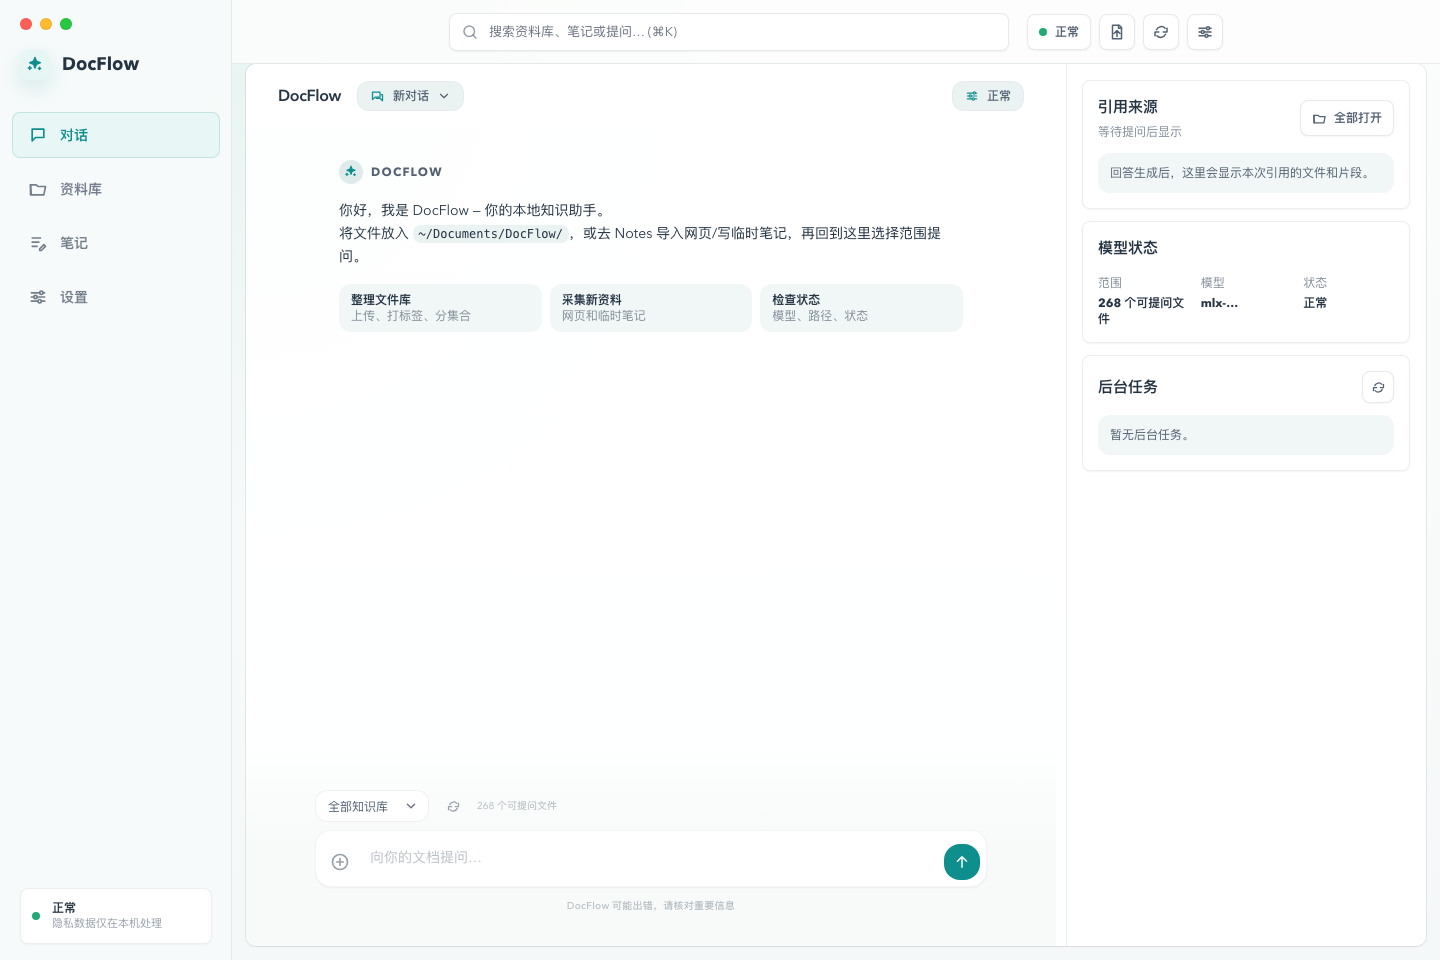
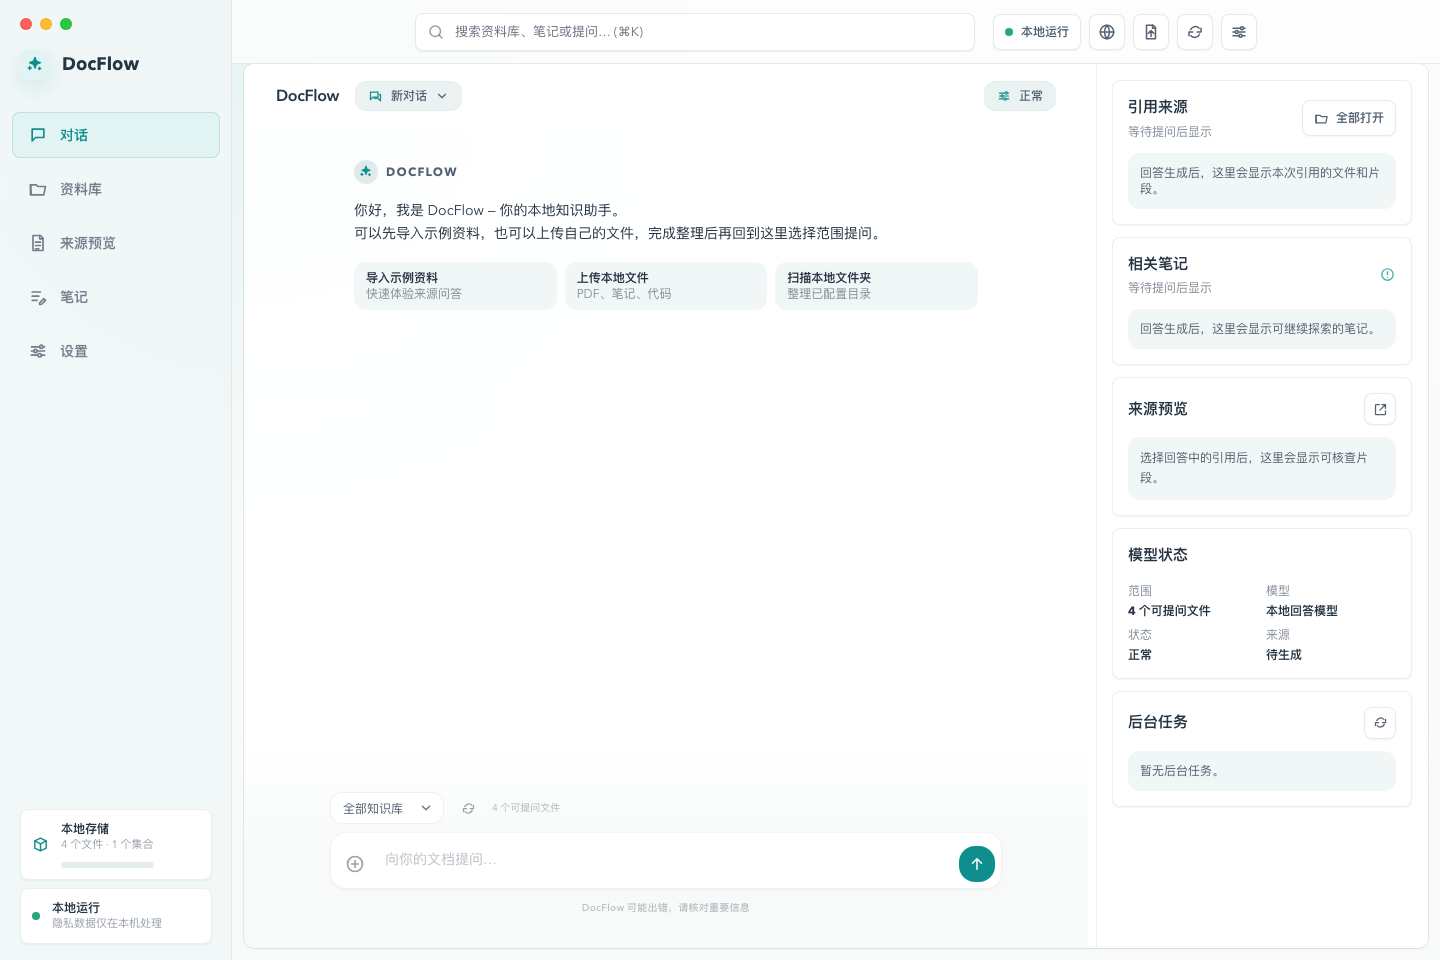
docs: refresh public demo screenshots

diff --git a/README.md b/README.md
@@ -4,6 +4,8 @@ English · [简体中文](README.zh-CN.md)
 
 ![DocFlow chat workspace](docs/assets/chat.png)
 
+The screenshots in this README are captured from the bundled demo library, not a personal vault.
+
 DocFlow is a local-first document Q&A and knowledge workspace. Point it at a folder of PDFs, Markdown, DOCX, code, or images. Ask questions in your browser. Get answers with cited sources.
 
 - **Auditable local defaults.** No telemetry, analytics, or document upload. Optional webpage import, model downloads, and cloud backends are explicit.
@@ -17,7 +19,9 @@ git clone https://github.com/lingengyuan/docflow.git && cd docflow
 docker compose up --build
 ```
 
-Then open <http://localhost:8000> and click **导入示例资料** to try a small local library.
+Then open <http://localhost:8000> and click the demo-library card, **导入示例资料**,
+to try a small local library. The browser UI is Chinese-first today; the language
+button switches common navigation and status labels while fuller localization continues.
 
 For real answers, run a local model server such as Ollama or LM Studio and select it in Settings. The Docker path starts the app and Qdrant; model weights are still managed by the local model tool you choose.
 

diff --git a/docs/status.md b/docs/status.md
@@ -30,6 +30,7 @@ DocFlow is now beyond the original prototype phase and has a clearer public proj
 - The latest dependency review raised `python-multipart`, `pillow`, `onnx`, `pytest`, `mlx`, and `mlx-lm` above the current Dependabot fixed versions. Local `pip-audit` and `npm audit` both report no known vulnerabilities.
 - CI now includes Ubuntu Python 3.11/3.12, macOS Python 3.12, Windows Python 3.12, and a dedicated offline doctor job.
 - The browser shell now has a language toggle foundation, keyboard skip link, active navigation state, and PWA shell files.
+- Public screenshots are regenerated from the bundled demo library so they do not expose local personal paths or private notes.
 - Internal planning notes now live outside the public project surface; the repository no longer ships a public `plans/` directory.
 
 ## Latest Local Validation

diff --git a/README.zh-CN.md b/README.zh-CN.md
@@ -26,6 +26,7 @@ docker compose up --build
 ```
 
 打开 [http://localhost:8000](http://localhost:8000)，然后选择 **导入示例资料** 体验一个小型本地资料库。
+README 中的截图来自内置示例资料库，不包含个人文件夹或真实笔记内容。
 
 首次运行成本需要提前知道：Docker 和 Qdrant 会占用本地空间，当前验证机器上应用镜像构建后约 0.5 GB；你选择的本地问答模型会额外占用空间，常见 7B Ollama 模型通常约 4-5 GB。图片理解和 Apple Silicon MLX 支持都是可选安装。
 
